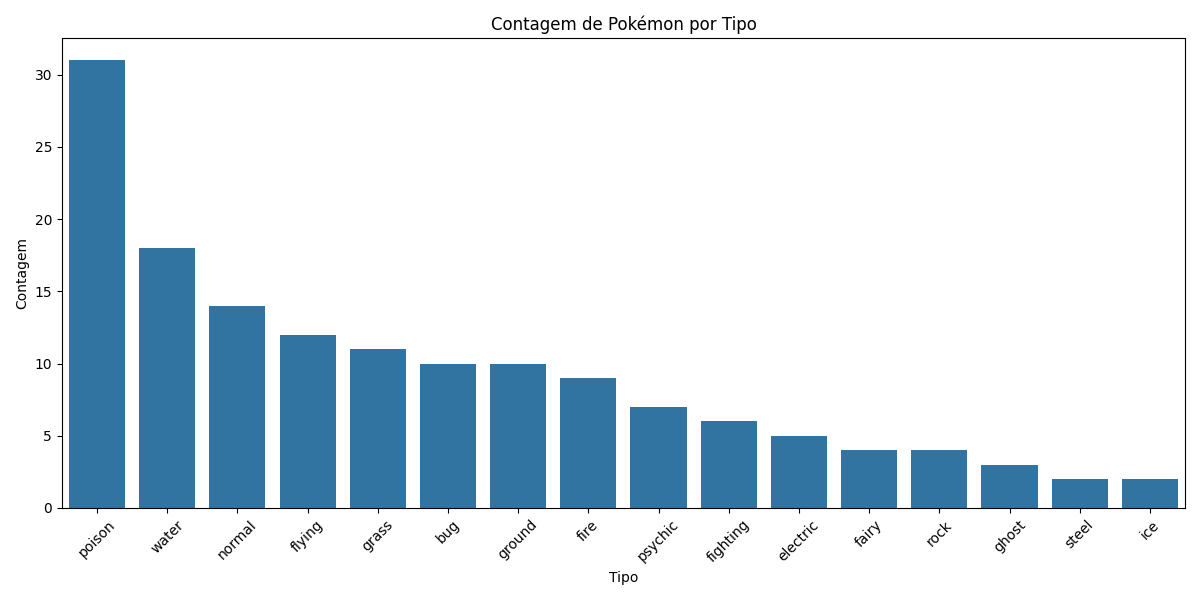
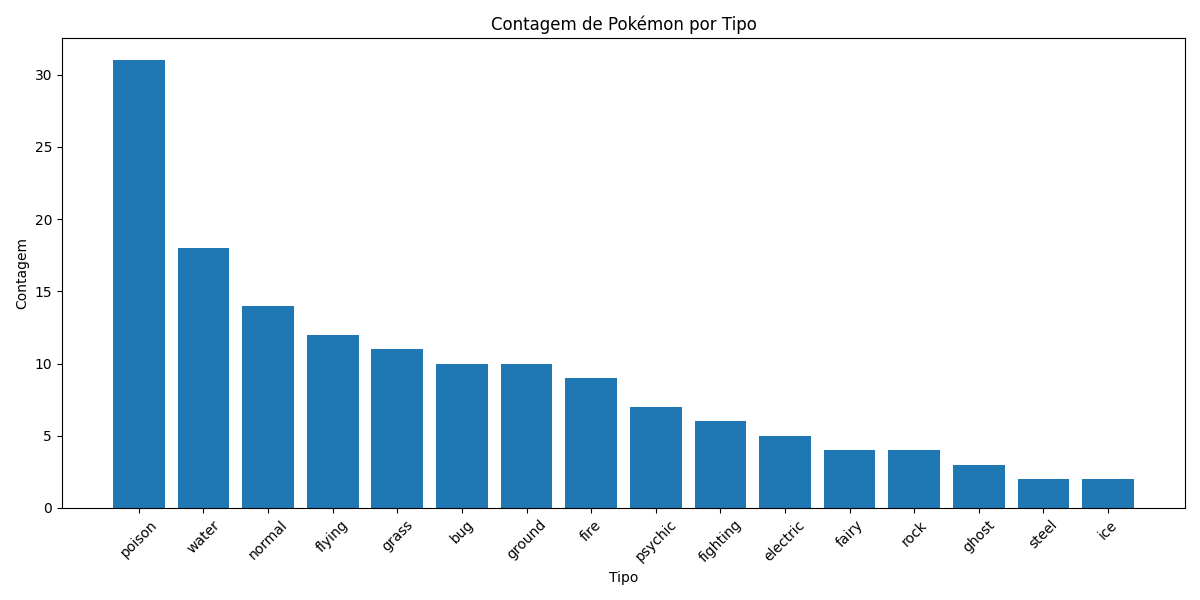
fix(analyze.py): removes seaborn use

diff --git a/scripts/analyze.py b/scripts/analyze.py
@@ -1,11 +1,10 @@
 import matplotlib.pyplot as plt
-import seaborn as sea
 
 # Função para gerar o gráfico de contagem por tipo
 def generate_type_count_bar_graph(df):
     type_counts = df.explode("Tipos")["Tipos"].value_counts()
     plt.figure(figsize=(12, 6))
-    sea.barplot(x=type_counts.index, y=type_counts.values)
+    plt.bar(type_counts.index, type_counts.values)
     plt.title("Contagem de Pokémon por Tipo")
     plt.xlabel("Tipo")
     plt.ylabel("Contagem")
